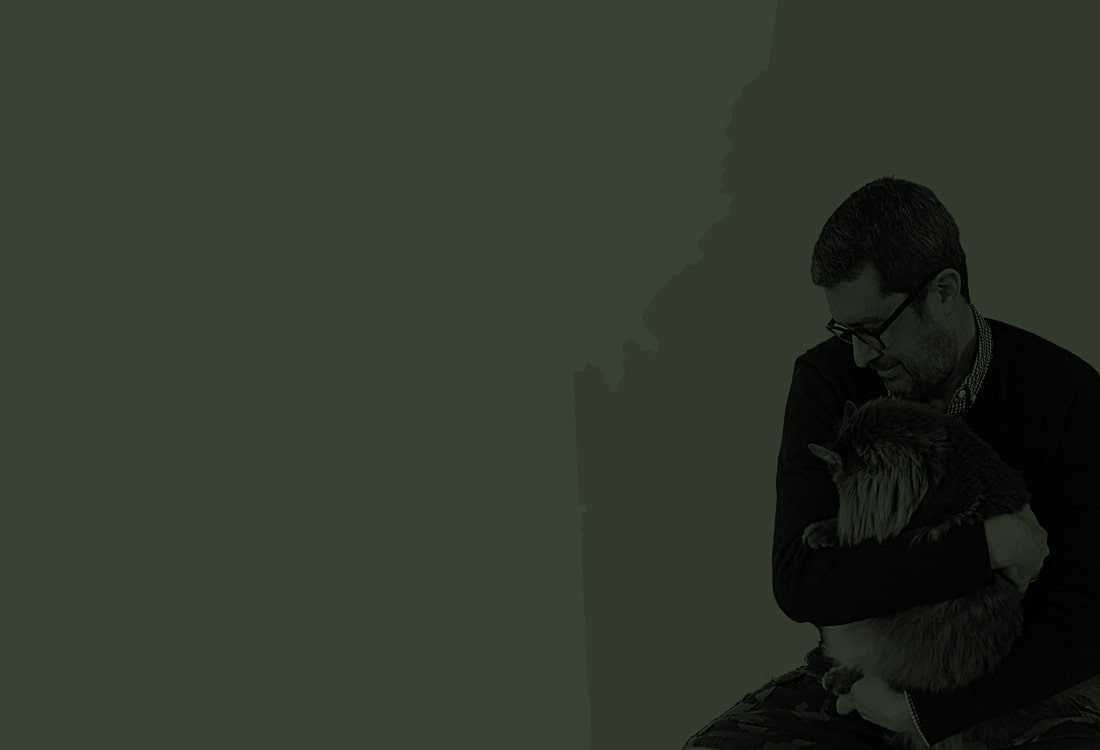
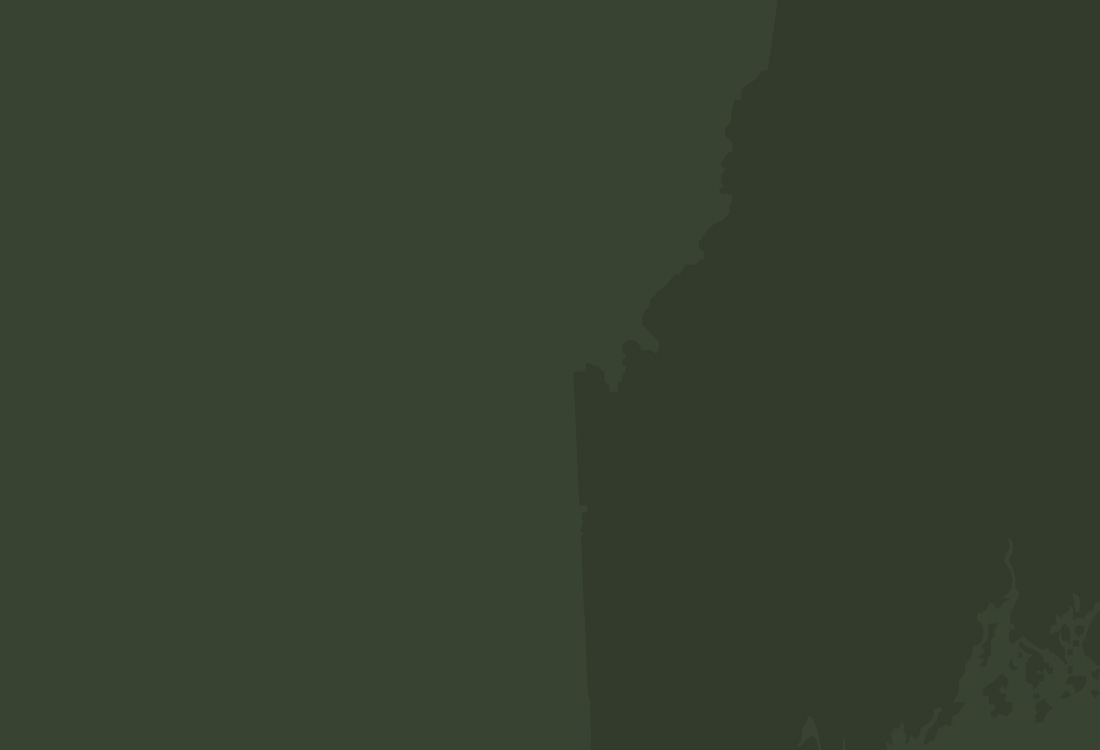
Last batch of updates

Changed region(s): [[0.6182, 0.2147, 1.0, 1.0]]

diff --git a/update/assets/css/master.css b/update/assets/css/master.css
@@ -10,7 +10,7 @@
 
 html { width: 100%; min-width: 100%; height: 100%; margin: 0 auto; padding: 0; font-family: "metropolis-regular", sans-serif; font-smoothing: antialiased; text-rendering: optimizeLegibility; font-size: 16px; font-style: normal; font-weight: 300; line-height: 1.25; color: #384332; }
 
-@media (min-width: 80rem) { html { font-size: 18px; line-height: 1.5; } }
+@media (min-width: 78rem) { html { font-size: 18px; line-height: 1.5; } }
 
 body, .body { width: 100%; height: auto; min-height: 100vh; overflow-x: hidden; margin: 0 auto; padding: 0; }
 
@@ -237,13 +237,7 @@ figcaption { display: flex; flex-direction: column; align-items: flex-start; jus
 
 .about figure .logo { width: calc(100% - 70vw); min-width: 12rem; margin: 0; padding: 0; }
 
-@media (orientation: portrait) and (min-width: 46rem) { .about figure .logo { width: calc(100% - 55vw); } }
-
-@media (orientation: landscape) and (min-width: 46rem) { .about figure .logo { width: calc(100% - 55vw); } }
-
-@media (min-width: 62rem) { .about figure .logo { width: calc(100% - 68.5vw); } }
-
-.bio figure { margin: 2rem 0; background-attachment: initial; background-image: url(../images/born-in-maine.png); background-position: center; background-repeat: no-repeat; background-size: contain; }
+.bio figure { margin: 2rem 0; }
 
 .bio figcaption { padding: 0; text-align: center; }
 
@@ -251,8 +245,7 @@ figcaption { display: flex; flex-direction: column; align-items: flex-start; jus
 
 .bio p { font-family: "metropolis-medium", sans-serif; line-height: 2; }
 
-@media (min-width: 46rem) { .bio figure { margin: 4rem 0; }
-  .bio figcaption { max-width: 40rem; } }
+@media (min-width: 46rem) { .bio figure { margin: 4rem 0; } }
 
 .do h1, .principles h1, .trivialities h1 { font-family: "metropolis-bold", sans-serif; text-align: center; }
 

diff --git a/update/assets/css/_pages/_about.scss b/update/assets/css/_pages/_about.scss
@@ -37,20 +37,9 @@
   padding: 0;
 }
 
-@media (orientation: portrait) and (min-width: 46rem) {.about figure .logo {width: calc(100% - 55vw);}}
-@media (orientation: landscape) and (min-width: 46rem) {.about figure .logo {width: calc(100% - 55vw);}}
-@media (min-width: 62rem) {.about figure .logo {width: calc(100% - 68.5vw);}}
-
 
 // BIOGRAPHY
-.bio figure {
-  margin: 2rem 0;
-  background-attachment: initial;
-  background-image: url(../images/born-in-maine.png);
-  background-position: center;
-  background-repeat: no-repeat;
-  background-size: contain;
-}
+.bio figure {margin: 2rem 0;}
 
 .bio figcaption {
   padding: 0;
@@ -64,9 +53,7 @@
   line-height: 2;
 }
 
-@media (min-width: 46rem) {
-.bio figure {margin: 4rem 0;}
-.bio figcaption {max-width: 40rem;}}
+@media (min-width: 46rem) {.bio figure {margin: 4rem 0;}}
 
 
 // ABOUT PAGE CUSTOM TYPESTYLES

diff --git a/update/assets/css/projects.css b/update/assets/css/projects.css
@@ -10,7 +10,7 @@
 
 html { width: 100%; min-width: 100%; height: 100%; margin: 0 auto; padding: 0; font-family: "metropolis-regular", sans-serif; font-smoothing: antialiased; text-rendering: optimizeLegibility; font-size: 16px; font-style: normal; font-weight: 300; line-height: 1.25; color: #384332; }
 
-@media (min-width: 80rem) { html { font-size: 18px; line-height: 1.5; } }
+@media (min-width: 78rem) { html { font-size: 18px; line-height: 1.5; } }
 
 body, .body { width: 100%; height: auto; min-height: 100vh; overflow-x: hidden; margin: 0 auto; padding: 0; }
 

diff --git a/update/assets/css/_global/_base.scss b/update/assets/css/_global/_base.scss
@@ -21,12 +21,11 @@ html {
 }
 
 
-@media (min-width: 80rem) {
+@media (min-width: 78rem) {
 html {
   font-size: 18px;
   line-height: 1.5;
-}
-}
+}}
 
 body, .body {
   width: 100%;
